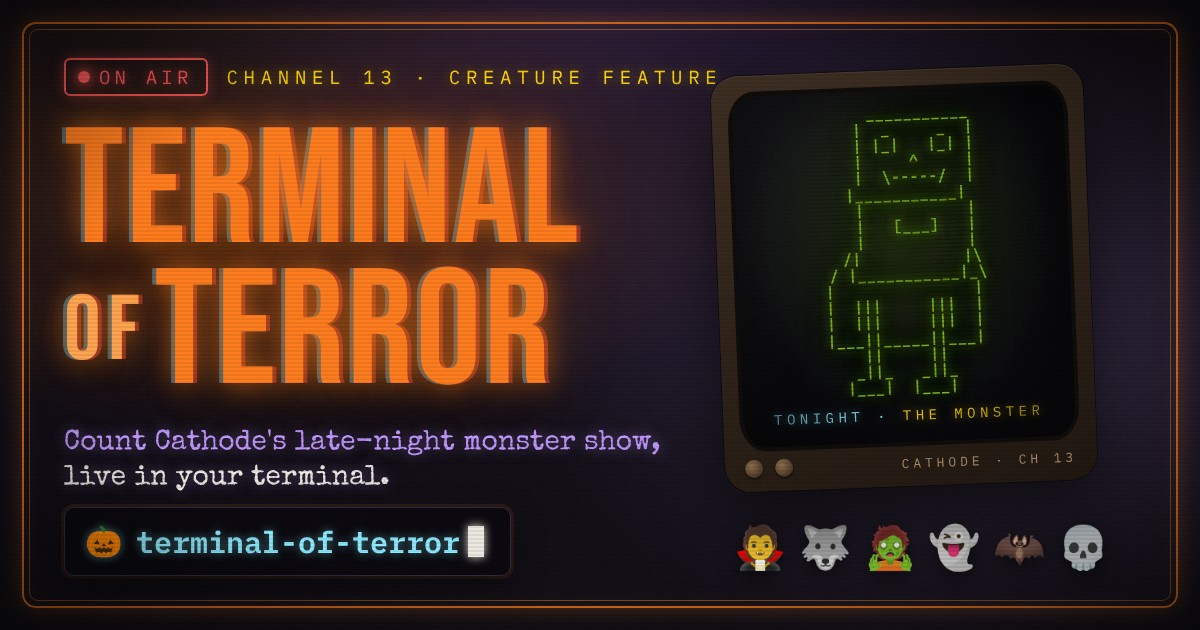
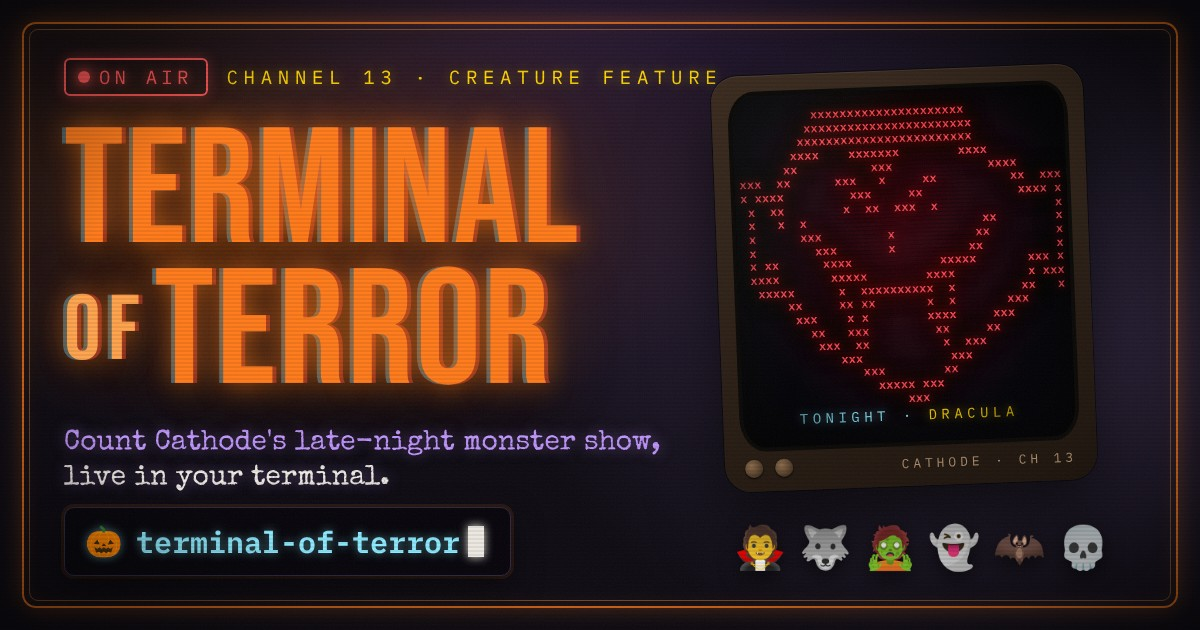
feat(site): Dracula on the social card's TV
Swap Frankenstein's Monster for Dracula's art from the universal pack, lit
in his blood-red pack colour, and re-render the card.

Claude-Session: https://claude.ai/code/session_01EAuqNM8SiQUT4vPfrNhYjQ

Changed region(s): [[0.6167, 0.1508, 0.8942, 0.6937]]

diff --git a/docs/demos/social-card.html b/docs/demos/social-card.html
@@ -78,12 +78,12 @@ h1 .of { color: var(--orange-2); font-size: 0.56em; letter-spacing: 0.08em; vert
 
 .cast { position: absolute; right: 78px; bottom: 58px; font-family: var(--emoji); font-size: 42px; letter-spacing: 0.3em; white-space: nowrap; filter: drop-shadow(0 6px 10px rgba(0, 0, 0, 0.7)); }
 
-/* The TV, as on the landing page: wooden bezel, black glass, Frankenstein's Monster on screen. */
+/* The TV, as on the landing page: wooden bezel, black glass, Dracula on screen. */
 .tv { position: absolute; right: 70px; top: 54px; width: 372px; background: linear-gradient(160deg, #3a2a1e, #1c130c); border-radius: 26px; padding: 20px 20px 14px; box-shadow: 0 34px 70px rgba(0, 0, 0, 0.7), inset 0 1px 0 rgba(255, 255, 255, 0.08), 0 0 0 1px rgba(0, 0, 0, 0.6); transform: rotate(-2.2deg); }
-.screen { position: relative; height: 352px; background: #04030a radial-gradient(ellipse at 50% 40%, rgba(124, 181, 24, 0.22) 0%, rgba(13, 10, 18, 0) 70%); border-radius: 22px / 30px; padding: 14px 0 0; overflow: hidden; box-shadow: inset 0 0 50px rgba(0, 0, 0, 0.95), 0 0 0 4px #0a0806; }
+.screen { position: relative; height: 352px; background: #04030a radial-gradient(ellipse at 50% 40%, rgba(193, 18, 31, 0.28) 0%, rgba(13, 10, 18, 0) 70%); border-radius: 22px / 30px; padding: 14px 0 0; overflow: hidden; box-shadow: inset 0 0 50px rgba(0, 0, 0, 0.95), 0 0 0 4px #0a0806; }
 .screen::before { content: ""; position: absolute; inset: 0; pointer-events: none; background: repeating-linear-gradient(to bottom, rgba(0, 0, 0, 0) 0, rgba(0, 0, 0, 0) 2px, rgba(0, 0, 0, 0.28) 3px, rgba(0, 0, 0, 0) 4px); }
 .screen::after { content: ""; position: absolute; inset: 0; pointer-events: none; background: radial-gradient(ellipse at 50% 45%, rgba(0, 0, 0, 0) 55%, rgba(0, 0, 0, 0.7) 100%), linear-gradient(115deg, rgba(255, 255, 255, 0.07) 0%, rgba(255, 255, 255, 0) 38%); }
-.monster { margin: 0; font-family: var(--mono); font-size: 15.5px; line-height: 1.04; font-weight: 600; color: #7cb518; text-align: center; text-shadow: 0 0 10px rgba(124, 181, 24, 0.9), 0 0 28px rgba(124, 181, 24, 0.5); white-space: pre; }
+.monster { margin: 0; font-family: var(--mono); font-size: 12.2px; line-height: 1.12; font-weight: 600; color: #ff4d57; text-align: center; text-shadow: 0 0 10px rgba(193, 18, 31, 0.95), 0 0 28px rgba(193, 18, 31, 0.6); white-space: pre; }
 .screen-label { position: absolute; left: 0; right: 0; bottom: 18px; text-align: center; font-size: 14px; letter-spacing: 0.32em; color: var(--sky); text-shadow: 0 0 10px rgba(139, 233, 253, 0.7); }
 .screen-label b { font-weight: 400; color: var(--gold); text-shadow: 0 0 10px rgba(255, 215, 0, 0.6); }
 .chin { display: flex; align-items: center; gap: 12px; padding-top: 12px; }
@@ -113,25 +113,29 @@ h1 .of { color: var(--orange-2); font-size: 0.56em; letter-spacing: 0.08em; vert
 
   <figure class="tv">
     <div class="screen">
-      <pre class="monster">    ___________
-   |  _     _  |
-   | |_|   |_| |
-   |     ^     |
-   |  \-----/  |
-   |___________|  
-   |           |
-   |   [___]   |
-   |           |
-  /|           |\
- / |___________|_\
-|               |
-|  |||     |||  |
-|  |||     |||  |
-|___||_____||___|
-    ||     ||    
-   _||_   _||_   
-  |___|  |___|   </pre>
-      <div class="screen-label">TONIGHT · <b>THE MONSTER</b></div>
+      <pre class="monster">          xxxxxxxxxxxxxxxxxxxxx             
+         xxxxxxxxxxxxxxxxxxxxxxx            
+        xxxxxxxxxxxxxxxxxxxxxxxx            
+       xxxx    xxxxxxx        xxxx          
+      xx          xxx             xxxx      
+xxx  xx      xxx   x     xx          xx  xxx
+x xxxx         xxx     xx             xxxx x
+ x  xx        x  xx  xxx  x                x
+ x   x  x                        xx        x
+ x      xxx         x           xx         x
+ x        xxx       x          xx          x
+ x xx      xxxx            xxxxx       xxx x
+ xxxx       xxxxx        xxxx          x xxx
+  xxxxx      x  xxxxxxxxxx  x         xx   x
+      xx     xx xx       x  x       xxx     
+       xxx    x x        xxxx     xxx       
+         xx   xxx         xx     xx         
+          xxx  xx          x  xxx           
+             xxx            xxx             
+                xxx        xx               
+                  xxxxx xxx                 
+                      xxx                   </pre>
+      <div class="screen-label">TONIGHT · <b>DRACULA</b></div>
     </div>
     <figcaption class="chin"><span class="knob"></span><span class="knob"></span><span class="tv-brand">CATHODE · CH 13</span></figcaption>
   </figure>
